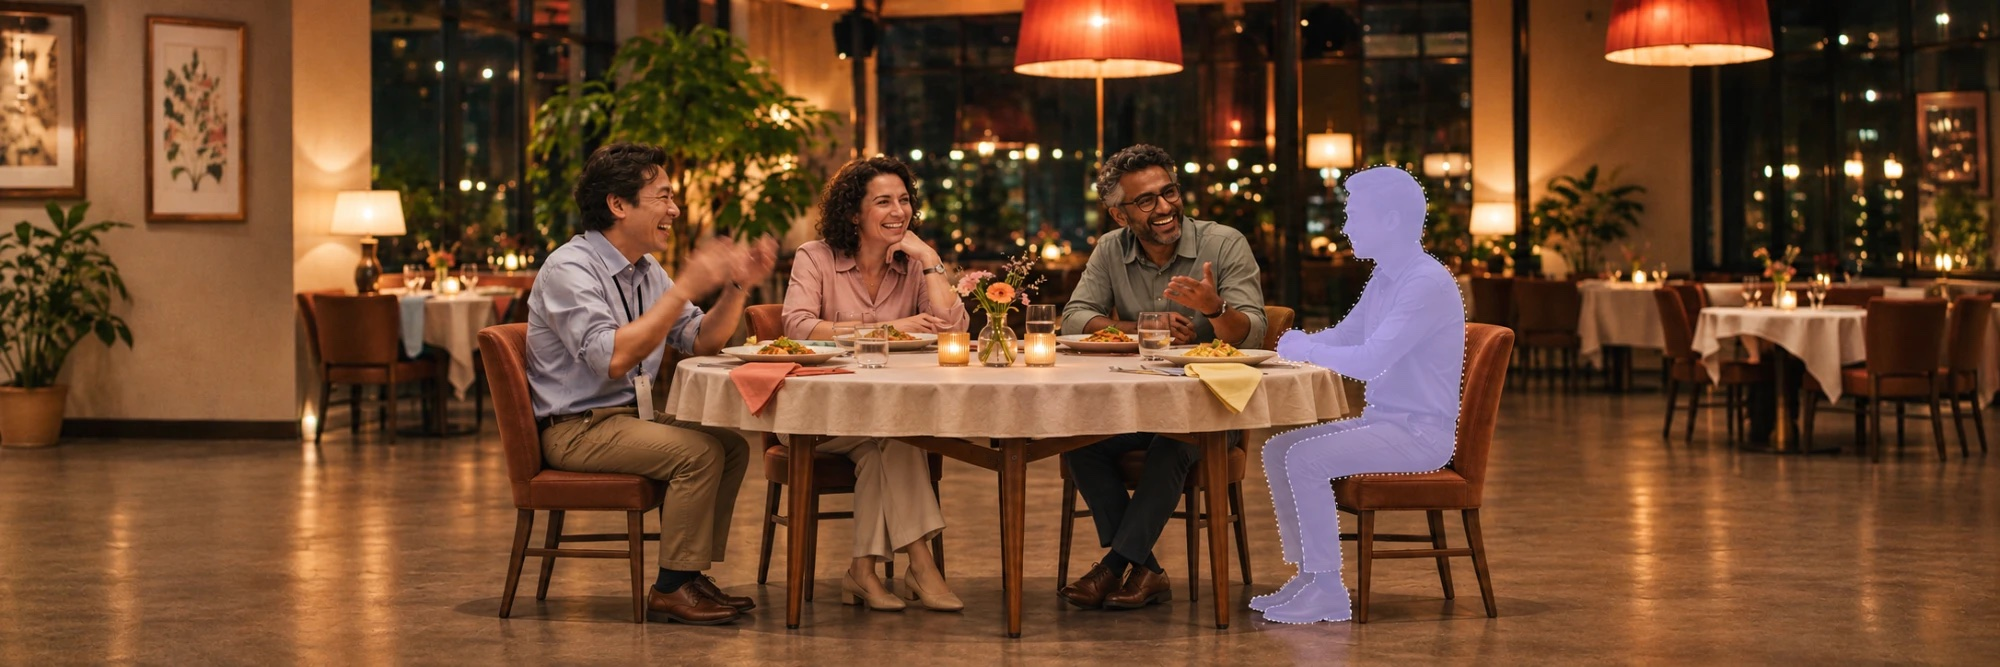
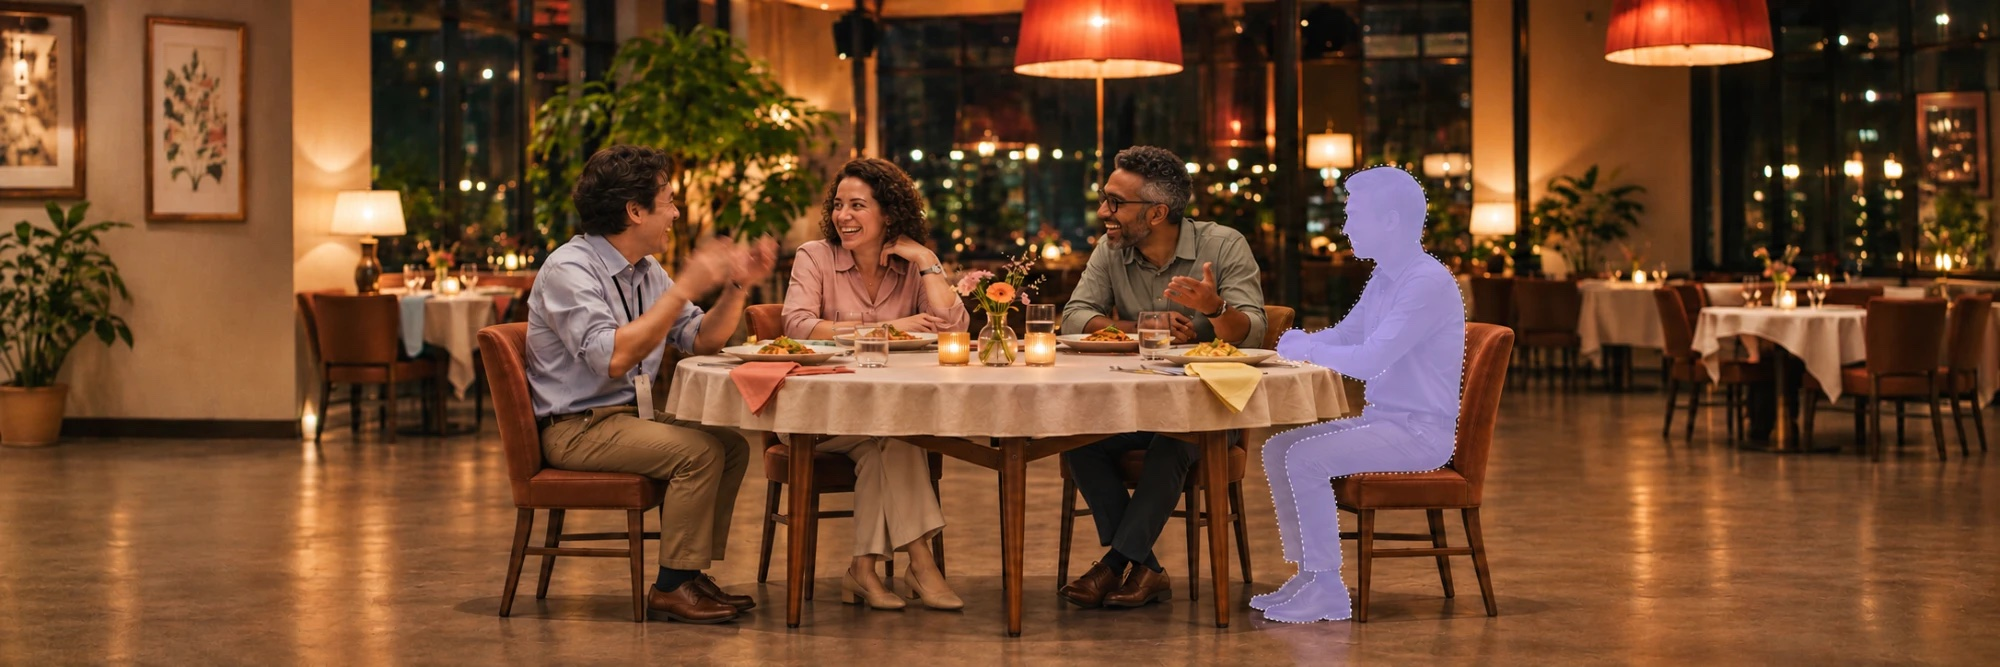
Las casillas de la mesa cambian juntas y sin saltos, y la foto de Vitrinexo 4Dinner trae la silueta punteada
LAS CASILLAS. El rubro que se ofrece, el que se busca y el cargo cambiaban
cada uno con su propio reloj y con un desfase de un cuarto de segundo entre
ellos. Ahora los mueve un solo reloj y cambian en el mismo instante. Antes la
casilla saltaba de ancho cuando el texto pasaba de una frase larga a una
corta; ahora el cambio va en tres tiempos: el texto se va, la casilla se
estira o se encoge de a poco hasta el ancho nuevo y el texto nuevo llega. El
ancho se mide con offsetWidth porque la mesa se inclina con el puntero y el
rectangulo vendria deformado. Perfiles usa la misma funcion.

LA FOTO. La version nueva de la cena con el puesto libre: la silueta lavanda
ahora lleva borde punteado. Mismo tamano, 2000 por 667.

Version 1.36.2.

diff --git a/assets/js/portada.js b/assets/js/portada.js
@@ -23,32 +23,75 @@ window.VX_CARGOS = [
   'Jefa de personas', 'Encargado de compras', 'Fundadora', 'Director creativo',
 ];
 
-/* Cambia el texto de un grupo de casillas cada `cada` milisegundos, con un
- * fundido. Se detiene con el puntero encima, con la pestaña oculta y con
- * movimiento reducido: nadie tiene que leer algo que se le escapa. */
-window.vxRotarRubros = function (casillas, contenedor, cada, lista = window.VX_RUBROS) {
+/* Cambia un texto de casilla en tres tiempos: el texto se va, la casilla se
+ * estira o se encoge hasta el ancho del nuevo y el nuevo llega. Antes el
+ * texto cambiaba de golpe y la casilla saltaba de ancho con él, que de una
+ * frase larga a una corta se veía cortado. */
+const vxCambiarTexto = async (texto, nuevo) => {
+  const casilla = texto.closest('.vx-casilla') || texto.parentElement;
+  const suave = 'cubic-bezier(.2,.8,.2,1)';
+
+  const salir = texto.animate(
+    [{ opacity: 1, transform: 'none', filter: 'blur(0)' },
+     { opacity: 0, transform: 'translateY(-4px)', filter: 'blur(2px)' }],
+    { duration: 260, easing: 'ease-in', fill: 'forwards' });
+  await salir.finished;
+
+  // offsetWidth y no getBoundingClientRect: la mesa se inclina con el
+  // puntero, y el rectángulo vendría deformado por esa transformación.
+  const antes = { w: casilla.offsetWidth, h: casilla.offsetHeight };
+  texto.textContent = nuevo;
+  const despues = { w: casilla.offsetWidth, h: casilla.offsetHeight };
+
+  casilla.style.overflow = 'hidden';
+  const tamano = casilla.animate(
+    [{ width: antes.w + 'px', height: antes.h + 'px' },
+     { width: despues.w + 'px', height: despues.h + 'px' }],
+    { duration: 420, easing: suave });
+  texto.animate(
+    [{ opacity: 0, transform: 'translateY(4px)', filter: 'blur(2px)' },
+     { opacity: 1, transform: 'none', filter: 'blur(0)' }],
+    { duration: 340, delay: 220, easing: 'ease-out', fill: 'backwards' });
+  salir.cancel();
+
+  await tamano.finished;
+  casilla.style.overflow = '';
+};
+
+/* Cambia todas las casillas de un grupo cada `cada` milisegundos, las tres
+ * al mismo tiempo. Cada casilla saca su lista de lo que muestra: el cargo de
+ * VX_CARGOS y el resto de VX_RUBROS. Se detiene con el puntero encima, con la
+ * pestaña oculta y con movimiento reducido: nadie tiene que leer algo que se
+ * le escapa. */
+window.vxRotarRubros = function (casillas, contenedor, cada) {
   if (!casillas.length || window.matchMedia('(prefers-reduced-motion: reduce)').matches) return;
+  if (typeof document.body.animate !== 'function') return;
   let pausa = false;
+  let cambiando = false;
   contenedor.addEventListener('pointerenter', () => { pausa = true; });
   contenedor.addEventListener('pointerleave', () => { pausa = false; });
 
-  const elegir = (evitar) => {
+  const listaDe = (c) => (c.hasAttribute('data-vx-cargo') ? window.VX_CARGOS : window.VX_RUBROS);
+  const elegir = (lista, evitar) => {
     let r;
     do { r = lista[Math.floor(Math.random() * lista.length)]; } while (evitar.includes(r));
     return r;
   };
 
-  setInterval(() => {
-    if (pausa || document.hidden) return;
+  setInterval(async () => {
+    if (pausa || cambiando || document.hidden) return;
+    cambiando = true;
     const usados = casillas.map((c) => c.textContent);
-    casillas.forEach((c, i) => {
-      const nuevo = elegir(usados);
-      usados.push(nuevo);
-      setTimeout(() => {
-        c.classList.add('is-cambiando');
-        setTimeout(() => { c.textContent = nuevo; c.classList.remove('is-cambiando'); }, 350);
-      }, i * 250);
+    const nuevos = casillas.map((c) => {
+      const n = elegir(listaDe(c), usados);
+      usados.push(n);
+      return n;
     });
+    try {
+      await Promise.all(casillas.map((c, i) => vxCambiarTexto(c, nuevos[i])));
+    } finally {
+      cambiando = false;
+    }
   }, cada);
 };
 
@@ -58,8 +101,8 @@ window.vxRotarRubros = function (casillas, contenedor, cada, lista = window.VX_R
   const hero = document.getElementById('vxMesaHero');
   if (!hero) return;
 
-  window.vxRotarRubros([...hero.querySelectorAll('[data-vx-rubro]')], hero, 3500);
-  window.vxRotarRubros([...hero.querySelectorAll('[data-vx-cargo]')], hero, 3500, window.VX_CARGOS);
+  // Un solo reloj para las tres casillas: rubros y cargo cambian juntos.
+  window.vxRotarRubros([...hero.querySelectorAll('[data-vx-rubro], [data-vx-cargo]')], hero, 3500);
 
   if (window.matchMedia('(prefers-reduced-motion: reduce)').matches) return;
 

diff --git a/assets/css/style.css b/assets/css/style.css
@@ -5442,16 +5442,11 @@ textarea {
   font-size: 18px;
 }
 
+/* El cambio de texto lo anima portada.js: se va el texto, la casilla ajusta
+   su ancho y llega el nuevo. Acá solo lo necesario para que se pueda mover. */
 .vx-casilla [data-vx-rubro],
 .vx-casilla [data-vx-cargo] {
   display: inline-block;
-  transition: opacity .35s ease, transform .35s ease;
-}
-
-.vx-casilla [data-vx-rubro].is-cambiando,
-.vx-casilla [data-vx-cargo].is-cambiando {
-  opacity: 0;
-  transform: translateY(6px);
 }
 
 .vx-casilla__icono--lavanda { background: var(--lavanda); }

diff --git a/style.css b/style.css
@@ -4,7 +4,7 @@ Theme URI: https://vitrinexo.com
 Author: Vitrinexo
 Author URI: https://vitrinexo.com
 Description: Theme oficial de Vitrinexo, directorio B2B de servicios profesionales.
-Version: 1.36.1
+Version: 1.36.2
 Requires at least: 6.0
 Tested up to: 6.7
 Requires PHP: 8.0
